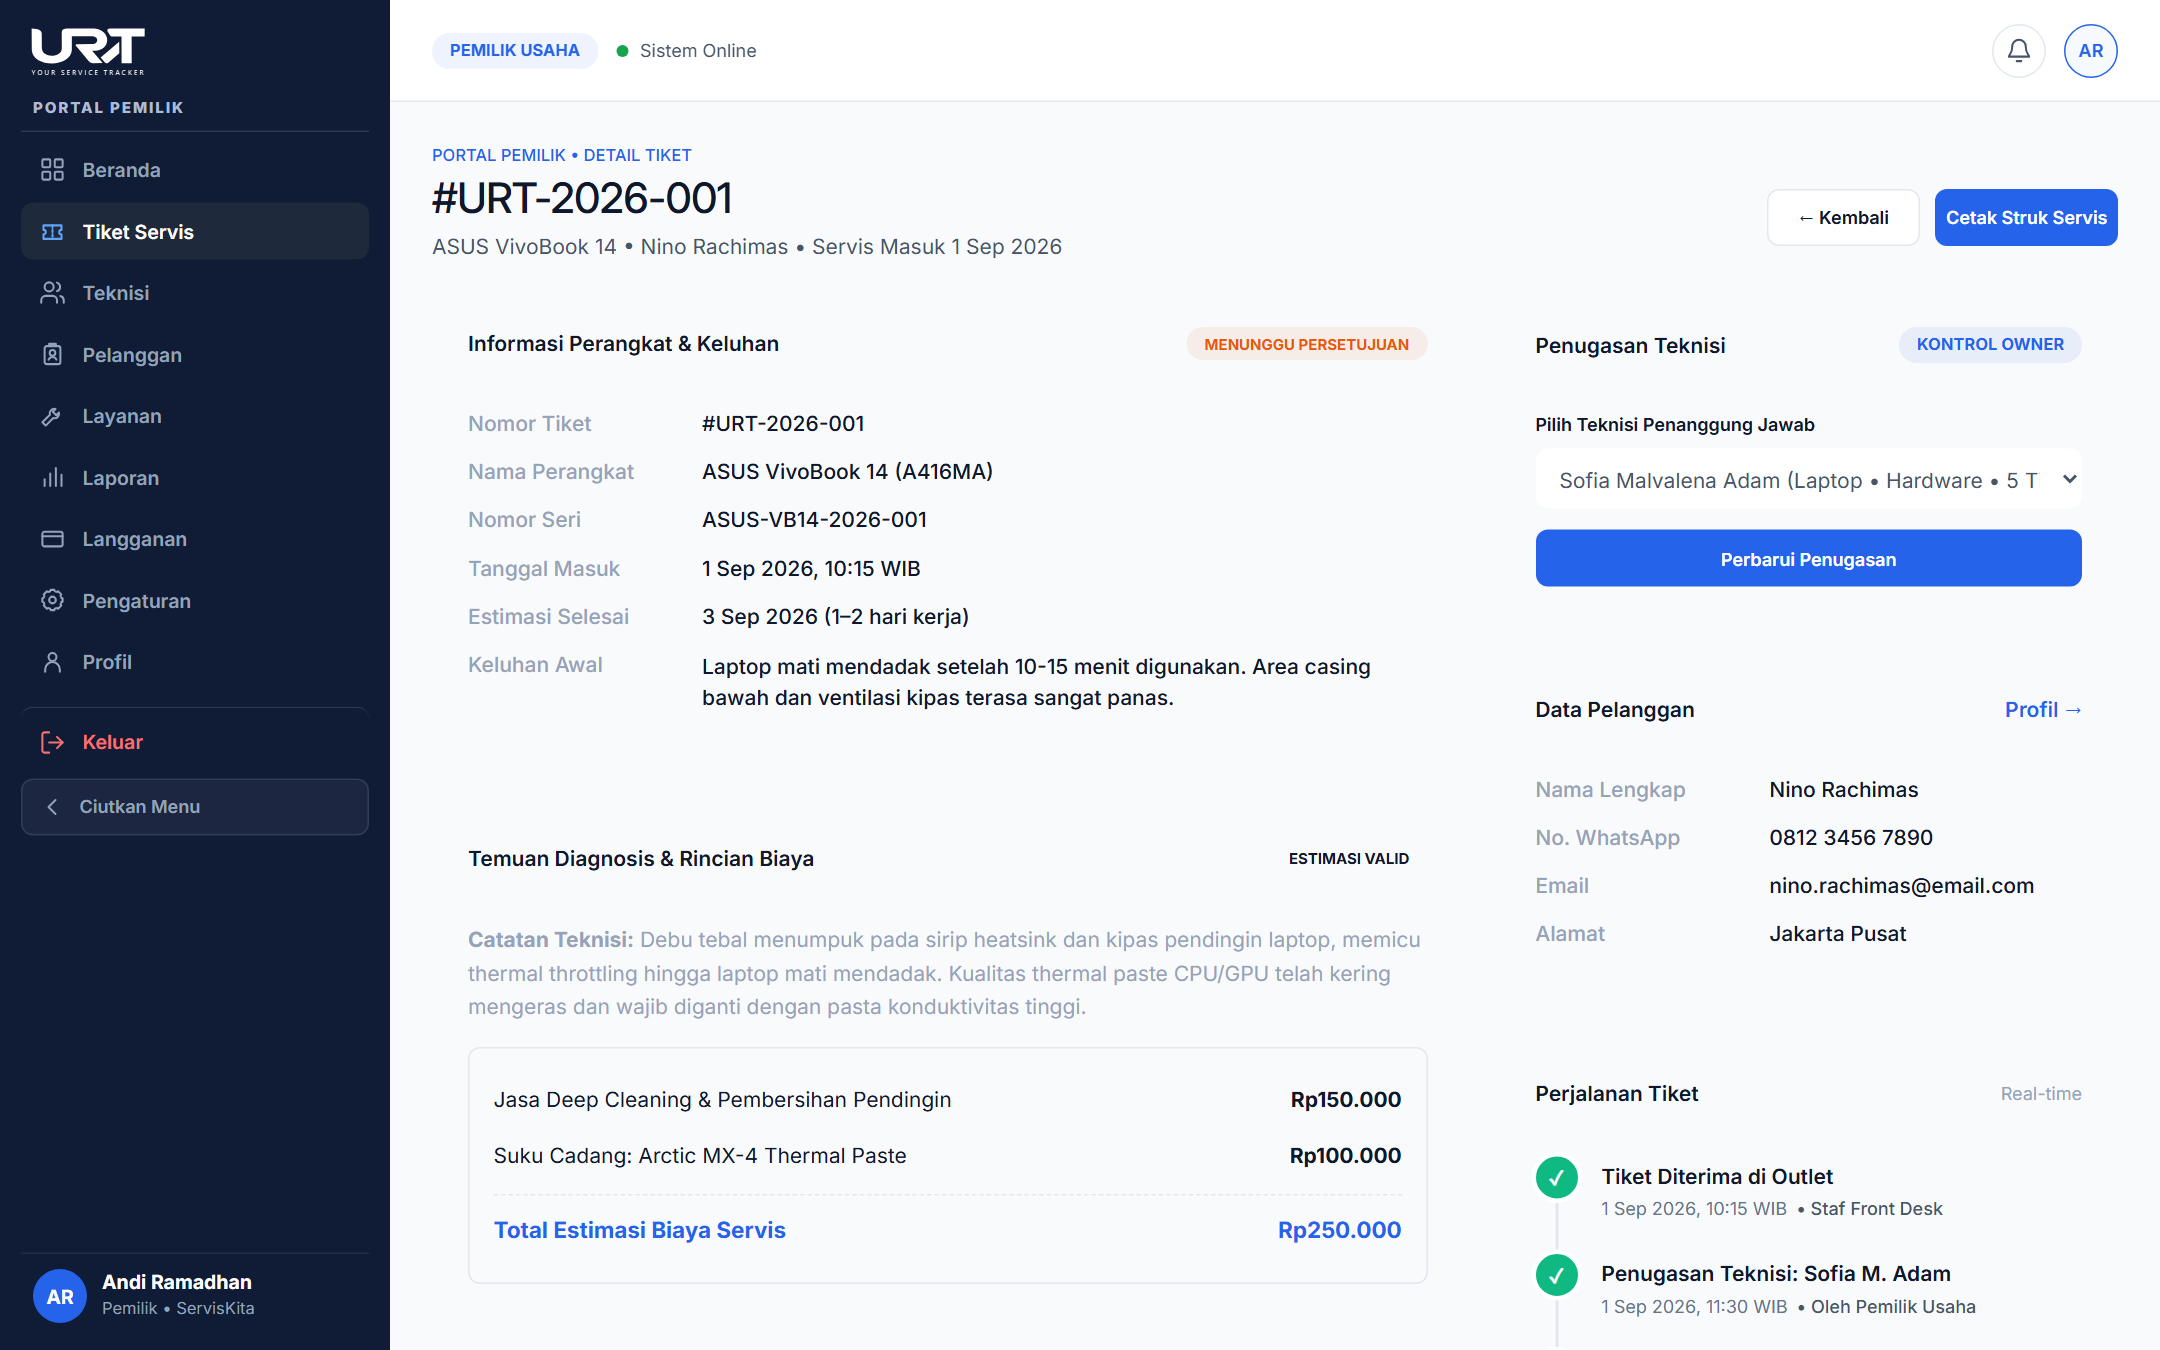
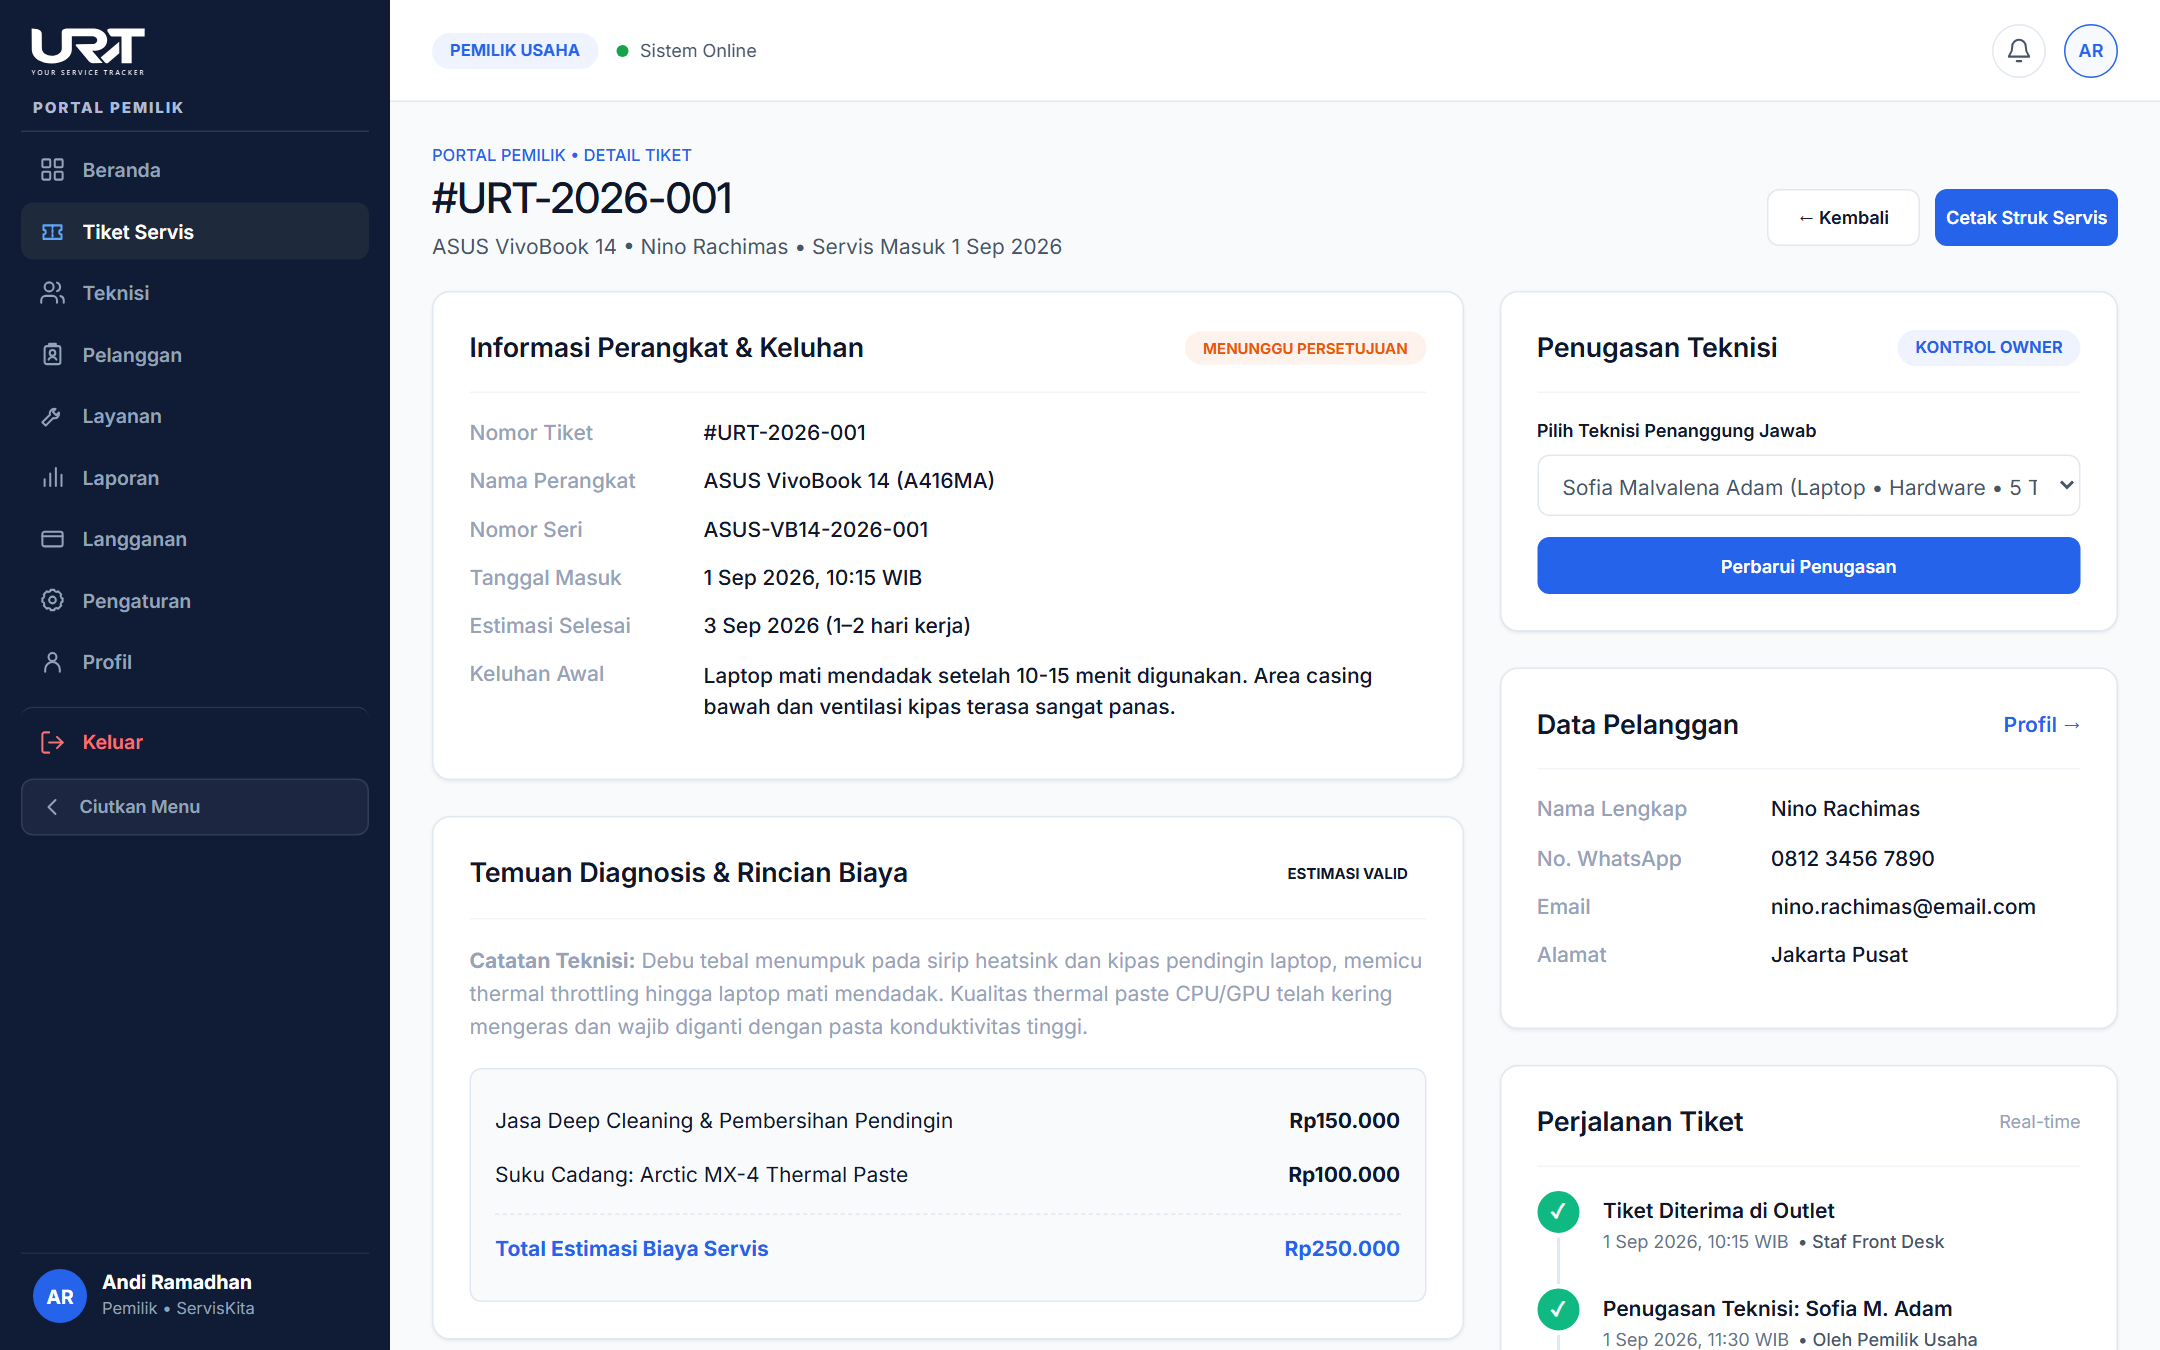
Add white background and border elevation to detail cards and update ticket-detail.png

diff --git a/owner/css/owner.css b/owner/css/owner.css
@@ -37,6 +37,17 @@
   --status-danger: var(--red-600);
   --status-info: var(--purple-600);
 
+  /* Compatibility & card tokens */
+  --surface: #ffffff;
+  --border: var(--slate-200);
+  --border-light: #f1f5f9;
+  --background: var(--slate-50);
+  --primary: var(--blue-600);
+  --text: var(--navy-950);
+  --text-h3: 18px;
+  --text-body-base: 14px;
+  --shadow-sm: 0 1px 3px 0 rgba(15, 23, 42, 0.06), 0 1px 2px -1px rgba(15, 23, 42, 0.04);
+
   /* Typography tokens — 100% unified with Teknisi, Pelanggan, and Landing */
   --font-sans: 'Inter', -apple-system, BlinkMacSystemFont, "Segoe UI", Roboto, Helvetica, Arial, sans-serif;
   --text-display: 32px;
@@ -2867,12 +2878,12 @@ tbody td strong,
 .service-detail-card,
 .renew-card,
 .import-card {
-  background: var(--surface);
-  border: 1px solid var(--border);
-  border-radius: var(--radius-lg);
-  padding: var(--space-6);
-  box-shadow: var(--shadow-sm);
-  margin-bottom: var(--space-6);
+  background: #ffffff;
+  border: 1px solid var(--border-default, #e2e8f0);
+  border-radius: var(--radius-lg, 12px);
+  padding: var(--space-6, 24px);
+  box-shadow: 0 1px 3px 0 rgba(15, 23, 42, 0.06), 0 1px 2px -1px rgba(15, 23, 42, 0.04);
+  margin-bottom: var(--space-6, 24px);
 }
 .detail-card__header,
 .tech-header-row,
@@ -2940,11 +2951,11 @@ tbody td strong,
 }
 
 .form-card {
-  background: var(--surface);
-  border: 1px solid var(--border);
-  border-radius: var(--radius-lg);
-  padding: var(--space-6);
-  box-shadow: var(--shadow-sm);
+  background: #ffffff;
+  border: 1px solid var(--border-default, #e2e8f0);
+  border-radius: var(--radius-lg, 12px);
+  padding: var(--space-6, 24px);
+  box-shadow: 0 1px 3px 0 rgba(15, 23, 42, 0.06), 0 1px 2px -1px rgba(15, 23, 42, 0.04);
   max-width: 800px;
 }
 .form-grid-2 {
